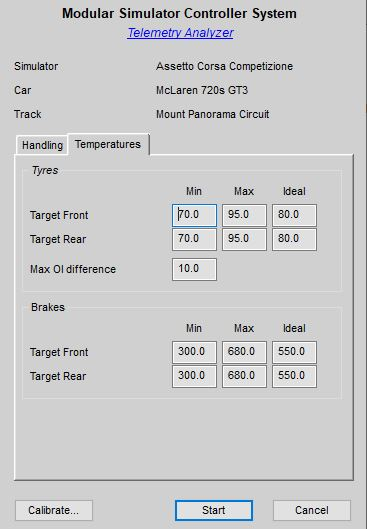
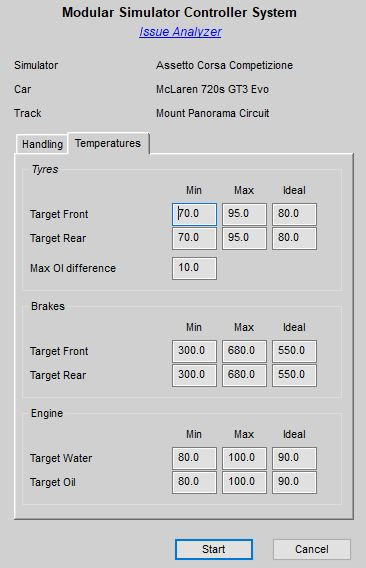
Documentation Updates

diff --git a/Docs/Setup Workbench.md b/Docs/Setup Workbench.md
@@ -61,11 +61,11 @@ In this dialog you can initialize the analyzer for your car and your targeted dr
 
   5. Finally, you can enable a short feedback sound, which varies in frequency and volume depending on over-/understeer events and their intensity. Lower tones indicate oversteering while higher tones indicate understeering.
 
-On the second tab "Temperatures" you can specify several thresholds for tyre and brake temepratures:
+On the second tab "Temperatures" you can specify several thresholds for tyre, brake and engine temepratures:
 
 ![](https://github.com/SeriousOldMan/Simulator-Controller/blob/Development/Docs/Images/Telemetry%20Analyzer%204.JPG)
 
-The *Ideal* temperatures are the values you want to target in average over the course of a complete lap, both for the tyres as well as for the brakes. Going over "Max" or going under "Min" will increase the severity of any created temperature related issues. And, last but not least, when the difference between inner and outer tyre temperatures of a given tyre exceeds the given "Max OI Difference" value, a corresponding issue will be generated as well.
+The *Ideal* temperatures are the values you want to target in average over the course of a complete lap. Going over "Max" or going under "Min" will increase the severity of any created temperature related issues. And, last but not least, when the difference between inner and outer tyre temperatures of a given tyre exceeds the given "Max OI Difference" value, a corresponding issue will be generated as well.
 
 Good to know: It is recommended to choose a car before entering the analyzer mode, since then some of the values in this dialog will be initialized with car specific data, depending on the chosen simulator. Also, all values you have chosen will be saved for the selected car / track combination and will be re-used the next time you will use the analyzer. Last but not least, if you change a setting while track is set to "All", this setting will be used as a default for all tracks, for which no settings have been selected so far.
 

diff --git a/Docs/Releases.md b/Docs/Releases.md
@@ -37,7 +37,7 @@ Please also take a look at the [Update Notes](https://github.com/SeriousOldMan/S
   4. The layouting system of the Telemetry Viewer now supports grouping of channels into separate clusters. See the [updated documentation](https://github.com/SeriousOldMan/Simulator-Controller/wiki/Session-Database#telemetry-viewer) for more information.
   5. Engine water and oil temperatures have been added to the internal data system and is acquired from all simulators, which support this information.
      - New issues have been added to the "Setup Workbench" for engine water and oil temperatures.
-     - The issue analyzer in the "Setup Workbench" let you define thresholds for these temperatures which in turn creates issues for the setup development.
+     - The [issue analyzer in the "Setup Workbench"](https://github.com/SeriousOldMan/Simulator-Controller/wiki/Setup-Workbench#real-time-issue-analyzer) let you define thresholds for these temperatures which in turn creates issues for the setup development.
 	 - The engine temperatures have beend added to various reports in "Solo Center" and "Team Center".
 	 - Setup settings for radiator blankets have been added to the "Setup Workbench".
      - The setup meta data for all cars of *Le Mans Ultimate* and also for all GT3 cars of *rFactor 2* has been updated for the "Setup Workbench". Unfortunately, both simulators do not report water and oil temperatures in the API at the moment.
